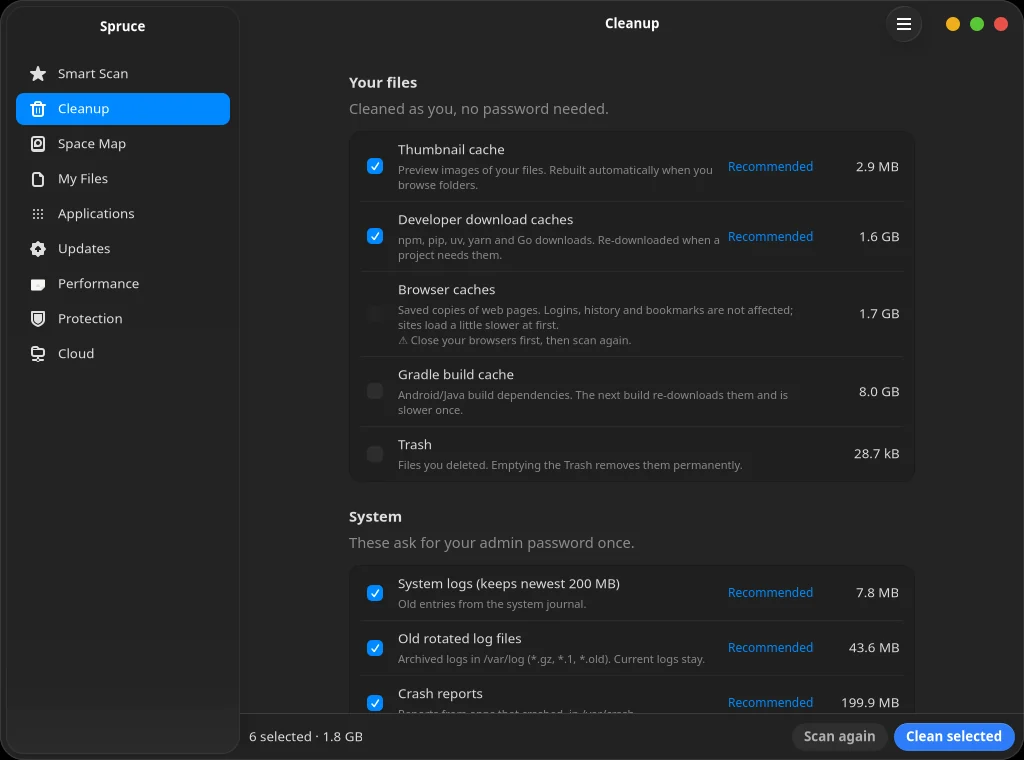
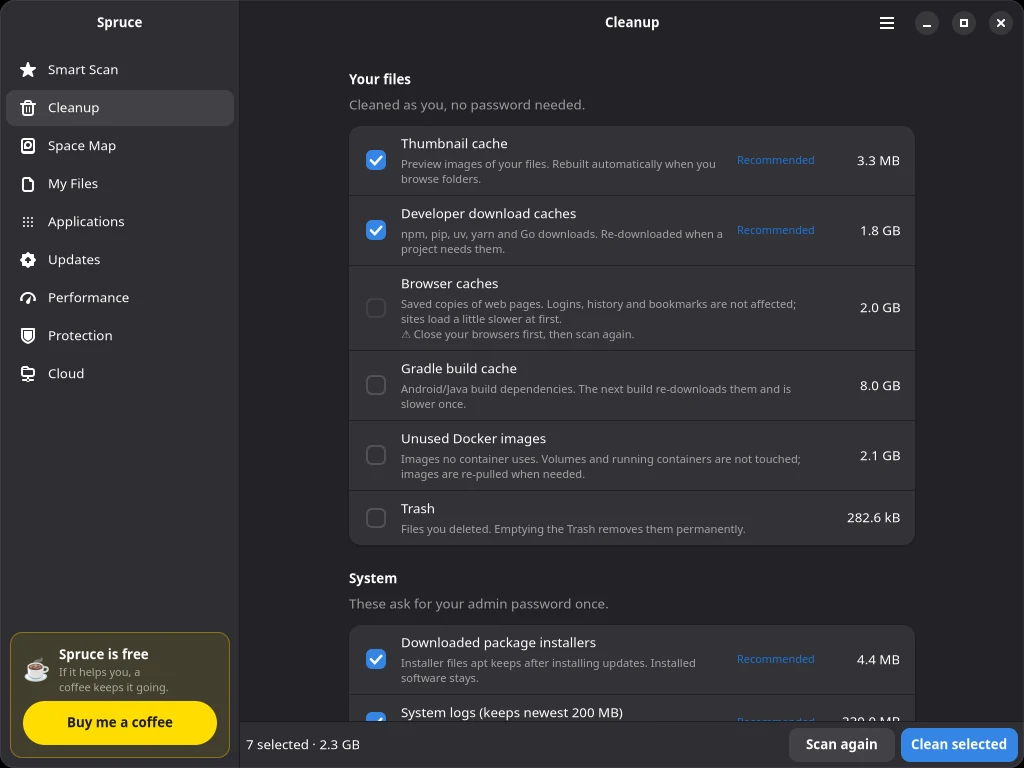
Spruce: new screenshots, link previews, search data, always-latest download

diff --git a/apps/spruce.html b/apps/spruce.html
@@ -10,7 +10,33 @@
 
   <meta property="og:title" content="Spruce — A Cleaner for Ubuntu That Asks Before It Deletes">
   <meta property="og:description" content="Ten tools in one native window: cleanup, disk map, duplicates, uninstaller, updates, performance, security and virus scanning. Your files go to the Trash, never straight to deletion.">
-  <meta property="og:image" content="https://pahalsoft.com/assets/spruce/icon-512.png">
+  <meta property="og:image" content="https://pahalsoft.com/assets/spruce/social-preview.png">
+  <meta property="og:image:width" content="1280">
+  <meta property="og:image:height" content="640">
+  <meta property="og:image:alt" content="Spruce: keep Ubuntu clean, fast and safe. Free and open source GNOME app.">
+  <meta property="og:type" content="website">
+  <meta property="og:url" content="https://pahalsoft.com/apps/spruce">
+  <meta property="og:site_name" content="PahalSoft">
+  <meta name="twitter:card" content="summary_large_image">
+  <link rel="canonical" href="https://pahalsoft.com/apps/spruce">
+  <script type="application/ld+json">
+  {
+    "@context": "https://schema.org",
+    "@type": "SoftwareApplication",
+    "name": "Spruce",
+    "description": "A free, open-source GNOME app that keeps Ubuntu clean, fast and safe: junk cleanup, a disk-space map, duplicates and similar photos, a complete uninstaller, all updates in one place, performance and security checks.",
+    "applicationCategory": "UtilitiesApplication",
+    "operatingSystem": "Ubuntu 24.04 or newer",
+    "softwareVersion": "0.6.4",
+    "license": "https://www.gnu.org/licenses/gpl-3.0.html",
+    "url": "https://pahalsoft.com/apps/spruce",
+    "downloadUrl": "https://github.com/PahalSoft/spruce/releases/latest",
+    "image": "https://pahalsoft.com/assets/spruce/smart-scan.webp",
+    "screenshot": "https://pahalsoft.com/assets/spruce/smart-scan.webp",
+    "offers": { "@type": "Offer", "price": "0", "priceCurrency": "USD" },
+    "author": { "@type": "Organization", "name": "PahalSoft", "url": "https://pahalsoft.com" }
+  }
+  </script>
 
   <link href="https://cdn.jsdelivr.net/npm/bootstrap@5.3.3/dist/css/bootstrap.min.css" rel="stylesheet">
   <link href="https://fonts.googleapis.com/css2?family=Inter:wght@300;400;600;700&family=Sora:wght@400;600;700&display=swap" rel="stylesheet">
@@ -53,7 +79,7 @@
             nothing is ever deleted until you have seen it and said yes.
           </p>
           <div class="mmw-cta d-flex flex-wrap gap-3 mt-4">
-            <a class="btn btn-primary" href="https://github.com/PahalSoft/spruce/releases/download/v0.6.3/spruce_0.6.3_all.deb">Download free</a>
+            <a class="btn btn-primary" href="https://github.com/PahalSoft/spruce/releases/latest/download/spruce_all.deb">Download free</a>
             <a class="btn btn-outline-dark" href="#features">What it does</a>
             <a class="btn btn-outline-dark" href="#support">Buy me a coffee</a>
           </div>
@@ -65,8 +91,8 @@
         </div>
         <div class="col-lg-7">
           <div class="sp-window">
-            <img src="../assets/spruce/smart-scan.webp" width="1024" height="760"
-                 alt="Spruce Smart Scan: the drive bar, 9.8 GB that can be freed, and links to 89 updates and 3 security issues">
+            <img src="../assets/spruce/smart-scan.webp" width="1024" height="768"
+                 alt="Spruce Smart Scan: the drive bar, 12.3 GB that can be freed, and links to 89 updates and 3 security issues">
           </div>
         </div>
       </div>
@@ -210,42 +236,48 @@
       <div class="sp-gallery">
         <figure class="m-0">
           <a class="sp-window" href="../assets/spruce/cleanup.webp" target="_blank" rel="noopener">
-            <img src="../assets/spruce/cleanup.webp" width="1024" height="760" loading="lazy" alt="Spruce Cleanup list with sizes and explanations for each item">
+            <img src="../assets/spruce/cleanup.webp" width="1024" height="768" loading="lazy" alt="Spruce Cleanup list with sizes and explanations for each item">
           </a>
           <figcaption>Cleanup — every item explained</figcaption>
         </figure>
         <figure class="m-0">
           <a class="sp-window" href="../assets/spruce/space-map.webp" target="_blank" rel="noopener">
-            <img src="../assets/spruce/space-map.webp" width="1024" height="760" loading="lazy" alt="Spruce Space Map treemap of an example home folder">
+            <img src="../assets/spruce/space-map.webp" width="1024" height="768" loading="lazy" alt="Spruce Space Map treemap of an example home folder">
           </a>
           <figcaption>Space Map — click a tile to look inside</figcaption>
         </figure>
         <figure class="m-0">
+          <a class="sp-window" href="../assets/spruce/duplicates.webp" target="_blank" rel="noopener">
+            <img src="../assets/spruce/duplicates.webp" width="1024" height="768" loading="lazy" alt="Spruce Duplicates: sets of identical files, with the copy to keep marked">
+          </a>
+          <figcaption>Duplicates — one copy of each is always kept</figcaption>
+        </figure>
+        <figure class="m-0">
           <a class="sp-window" href="../assets/spruce/applications.webp" target="_blank" rel="noopener">
-            <img src="../assets/spruce/applications.webp" width="1024" height="760" loading="lazy" alt="Spruce Applications list with app icons, sizes and Uninstall buttons">
+            <img src="../assets/spruce/applications.webp" width="1024" height="768" loading="lazy" alt="Spruce Applications list with app icons, sizes and Uninstall buttons">
           </a>
           <figcaption>Applications — packages, Snaps and Flatpaks together</figcaption>
         </figure>
         <figure class="m-0">
           <a class="sp-window" href="../assets/spruce/updates.webp" target="_blank" rel="noopener">
-            <img src="../assets/spruce/updates.webp" width="1024" height="760" loading="lazy" alt="Spruce Updates page listing package and Snap updates">
+            <img src="../assets/spruce/updates.webp" width="1024" height="768" loading="lazy" alt="Spruce Updates page listing package and Snap updates">
           </a>
           <figcaption>Updates — every source in one list</figcaption>
         </figure>
         <figure class="m-0">
           <a class="sp-window" href="../assets/spruce/boot.webp" target="_blank" rel="noopener">
-            <img src="../assets/spruce/boot.webp" width="1024" height="760" loading="lazy" alt="Spruce Boot and Maintenance view breaking down a 43.8 second startup">
+            <img src="../assets/spruce/boot.webp" width="1024" height="768" loading="lazy" alt="Spruce Boot and Maintenance view breaking down a 43.8 second startup">
           </a>
           <figcaption>Performance — where startup time goes</figcaption>
         </figure>
         <figure class="m-0">
           <a class="sp-window" href="../assets/spruce/preferences.webp" target="_blank" rel="noopener">
-            <img src="../assets/spruce/preferences.webp" width="1024" height="760" loading="lazy" alt="Spruce Preferences with the weekly check and top-bar monitor switches">
+            <img src="../assets/spruce/preferences.webp" width="1024" height="768" loading="lazy" alt="Spruce Preferences with the weekly check and top-bar monitor switches">
           </a>
           <figcaption>Preferences — the weekly check and top-bar monitor</figcaption>
         </figure>
       </div>
-      <p class="text-muted small mt-4 mb-0">Space Map is shown with an example home folder.</p>
+      <p class="text-muted small mt-4 mb-0">Space Map and Duplicates are shown with an example home folder.</p>
     </div>
   </section>
 
@@ -396,11 +428,11 @@
           </p>
           <p class="text-muted">
             Download the package from GitHub, then install it from a terminal with
-            <code>sudo apt install ./spruce_0.6.3_all.deb</code>. The source code is on GitHub
+            <code>sudo apt install ./spruce_all.deb</code>. The source code is on GitHub
             too, and bug reports are welcome there.
           </p>
           <div class="mmw-cta d-flex flex-wrap gap-3 mt-4">
-            <a class="btn btn-primary" href="https://github.com/PahalSoft/spruce/releases/download/v0.6.3/spruce_0.6.3_all.deb">Download free (.deb)</a>
+            <a class="btn btn-primary" href="https://github.com/PahalSoft/spruce/releases/latest/download/spruce_all.deb">Download free (.deb)</a>
             <a class="btn btn-outline-dark" href="https://github.com/PahalSoft/spruce">Source on GitHub</a>
             <a class="btn btn-outline-dark" href="#support">Buy me a coffee</a>
             <a class="btn btn-outline-dark" href="../#apps">All our apps</a>

diff --git a/index.html b/index.html
@@ -15,6 +15,8 @@
   <meta property="og:image" content="https://pahalsoft.com/assets/logo-invert.png">
   <meta property="og:type" content="website">
   <meta property="og:url" content="https://pahalsoft.com">
+  <meta name="twitter:card" content="summary">
+  <link rel="canonical" href="https://pahalsoft.com/">
 
   <meta name="theme-color" content="#4f46e5">
 
